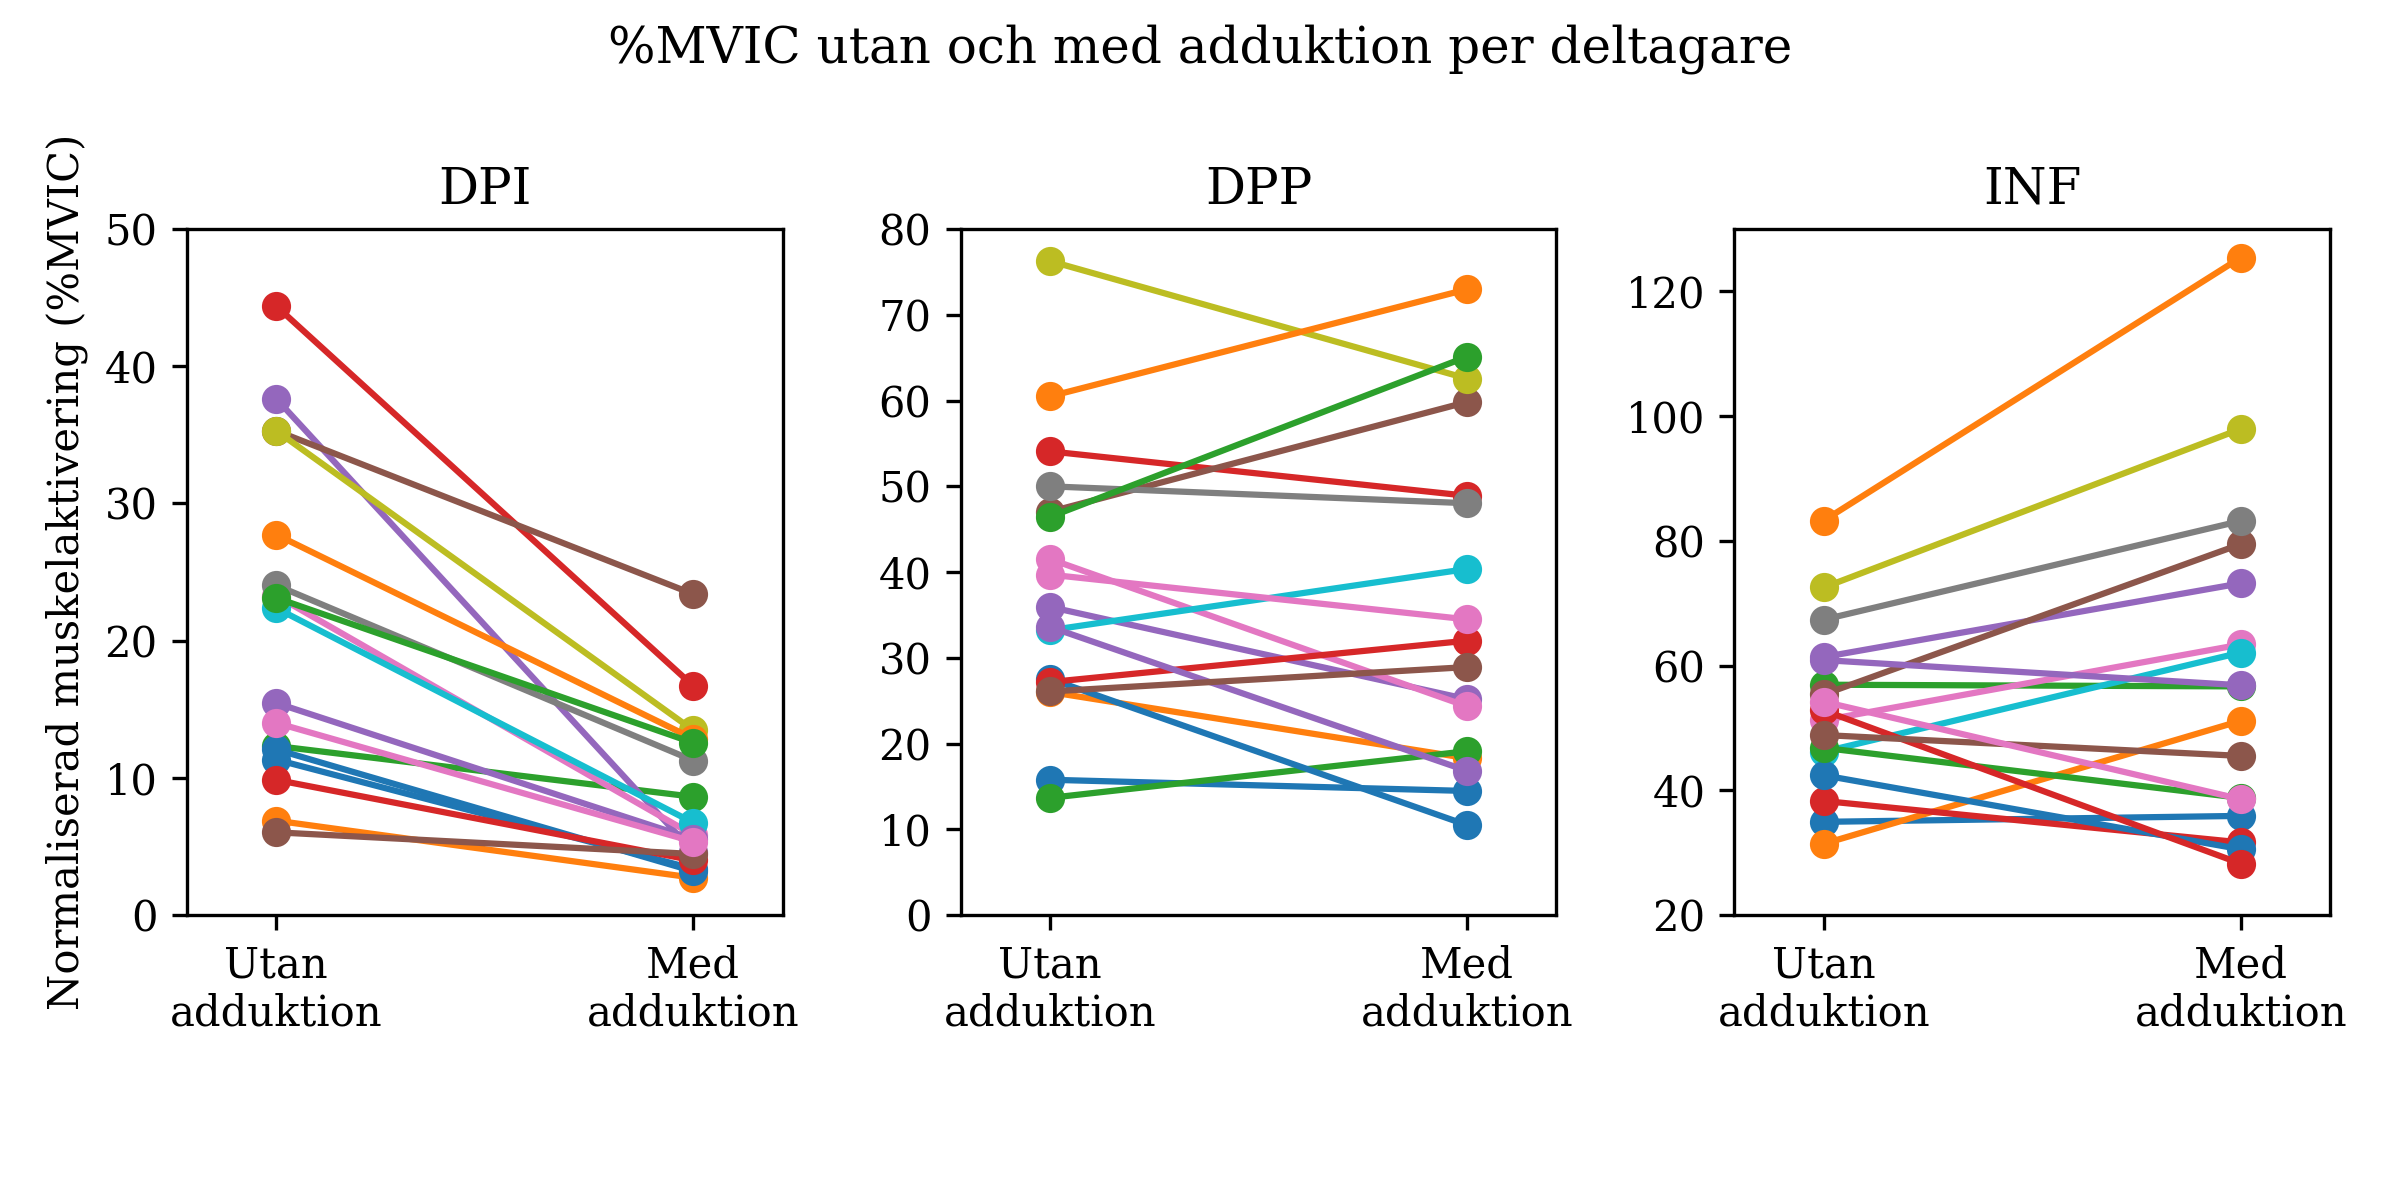
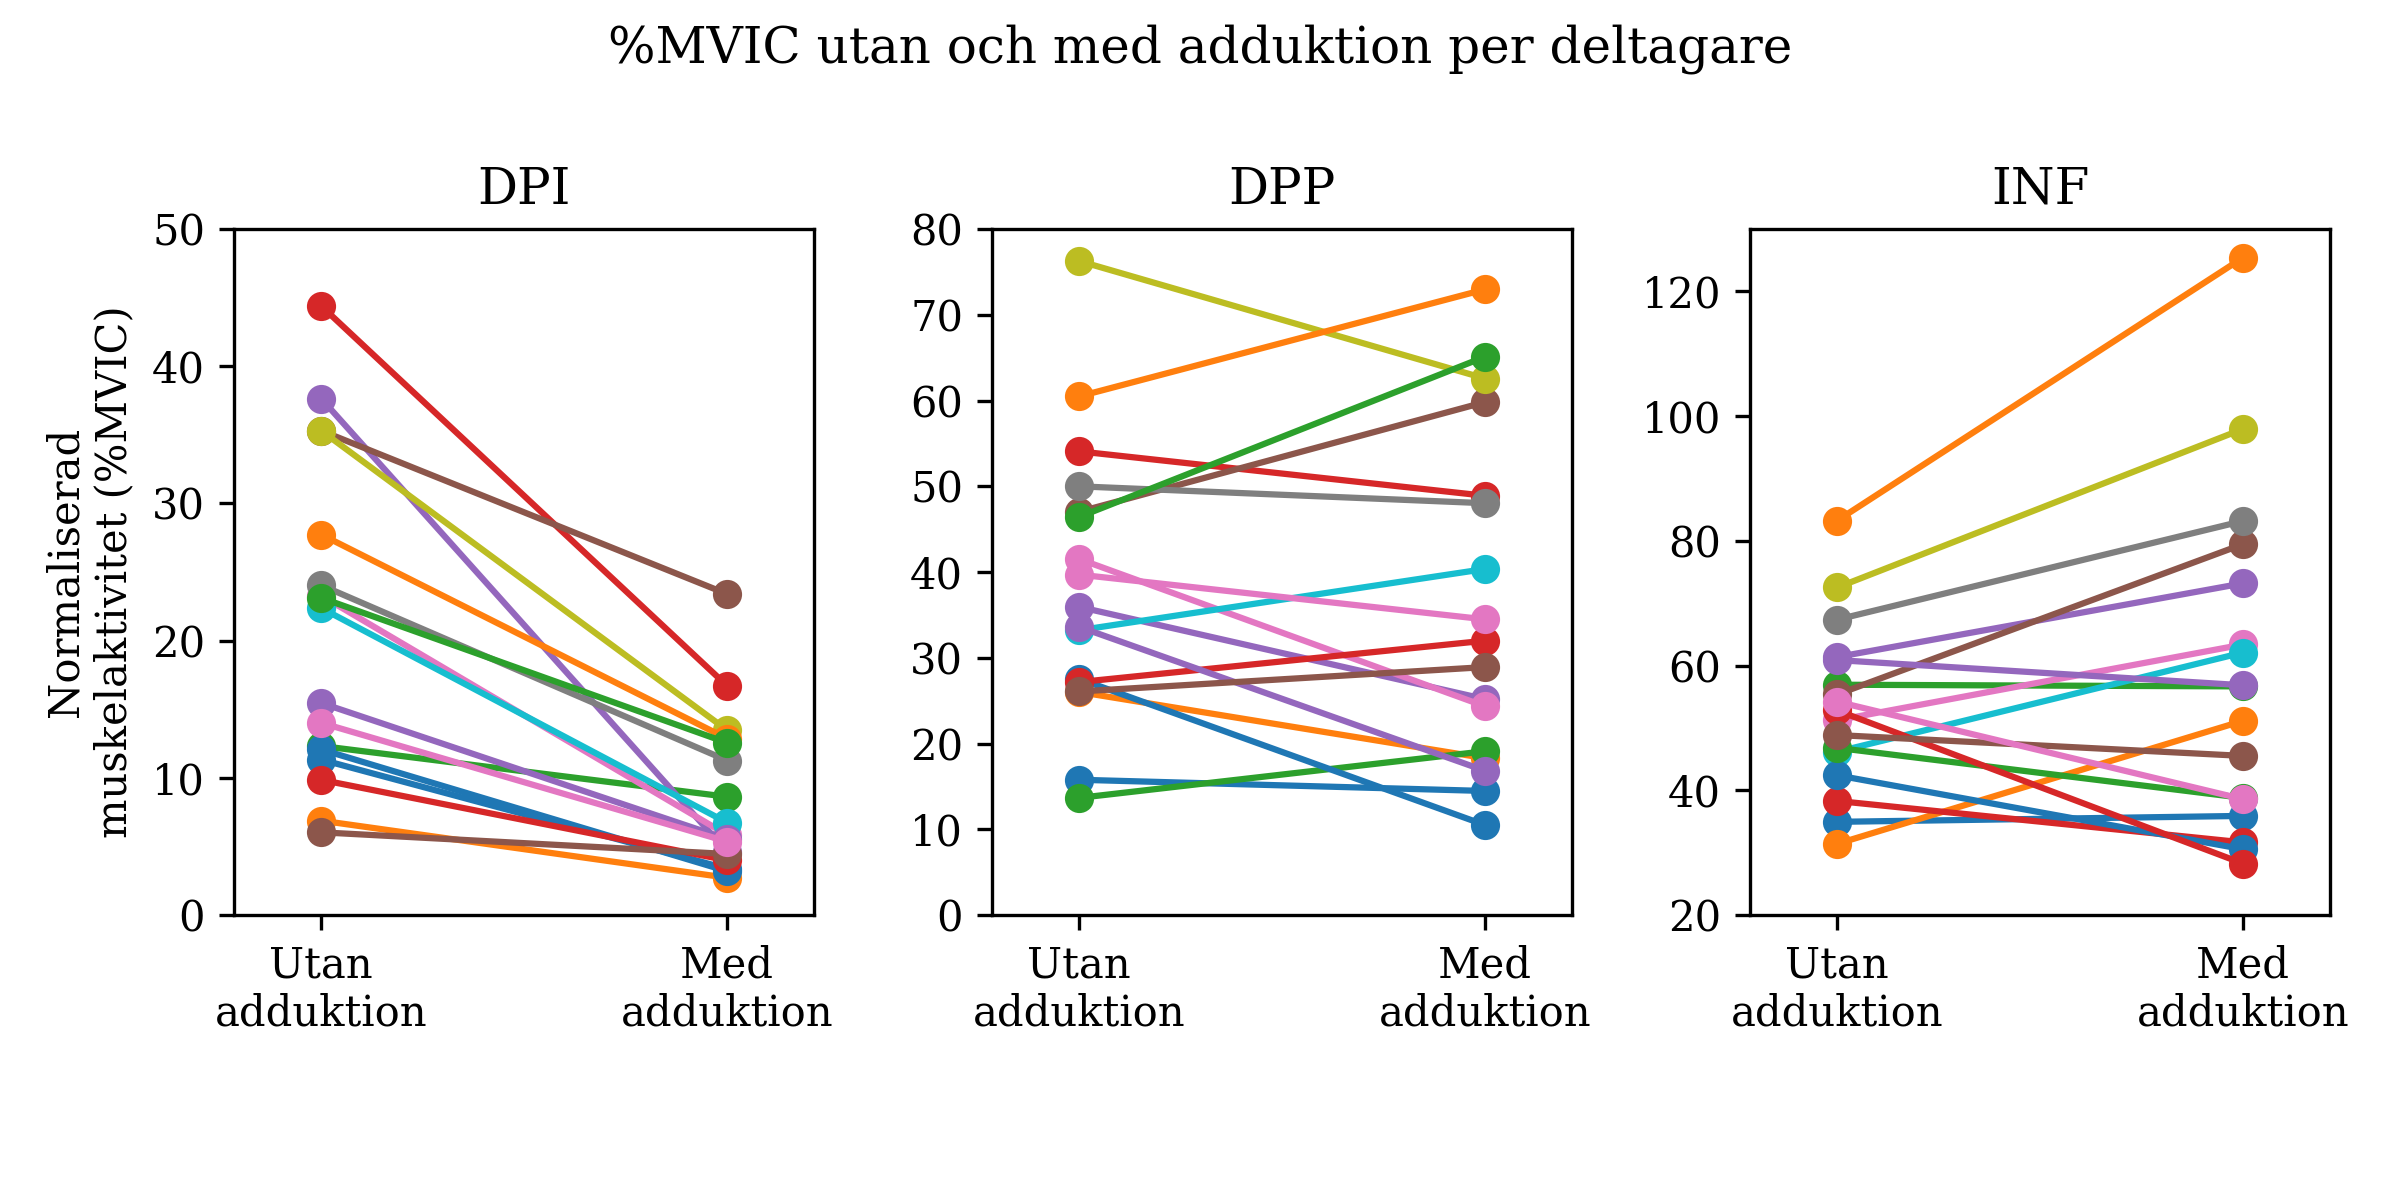
s/aktivering/aktivitet

diff --git a/emgplots.py b/emgplots.py
@@ -40,12 +40,12 @@ barcolors=['#777777', '#cccccc']
 fig, ax = plt.subplots(figsize=(6, 3.5))
 
 ax.bar(x,means,width=1, color=barcolors)
-ax.set_title('Muskelaktivering utan adduktion och med adduktion')
+ax.set_title('Muskelaktivitet utan adduktion och med adduktion')
 ax.set_xlim([-0.5, 10.5])
 ax.set_ylim([0, 100])
 ax.set_xticks([1.5,5,8.5])
 ax.set_xticklabels(['DPI', 'DPP','INF'])
-ax.set_ylabel('Normaliserad\n muskelaktivering (%MVIC)')
+ax.set_ylabel('Normaliserad\n muskelaktivitet (%MVIC)')
 ax.set_xlabel('Muskel')
 
 plt.errorbar(x, means, yerr=sds, ls='none', capsize=5, color='black', elinewidth=1)
@@ -98,7 +98,7 @@ axDPI.set_xlim(xlim)
 axDPI.set_ylim(0,50)
 axDPI.set_xticks(x)
 axDPI.set_xticklabels(['Utan\nadduktion','Med\nadduktion'])
-axDPI.set_ylabel('Normaliserad muskelaktivering (%MVIC)')
+axDPI.set_ylabel('Normaliserad\nmuskelaktivitet (%MVIC)')
 
 # DPP
 for i in range(0,len(df)):
